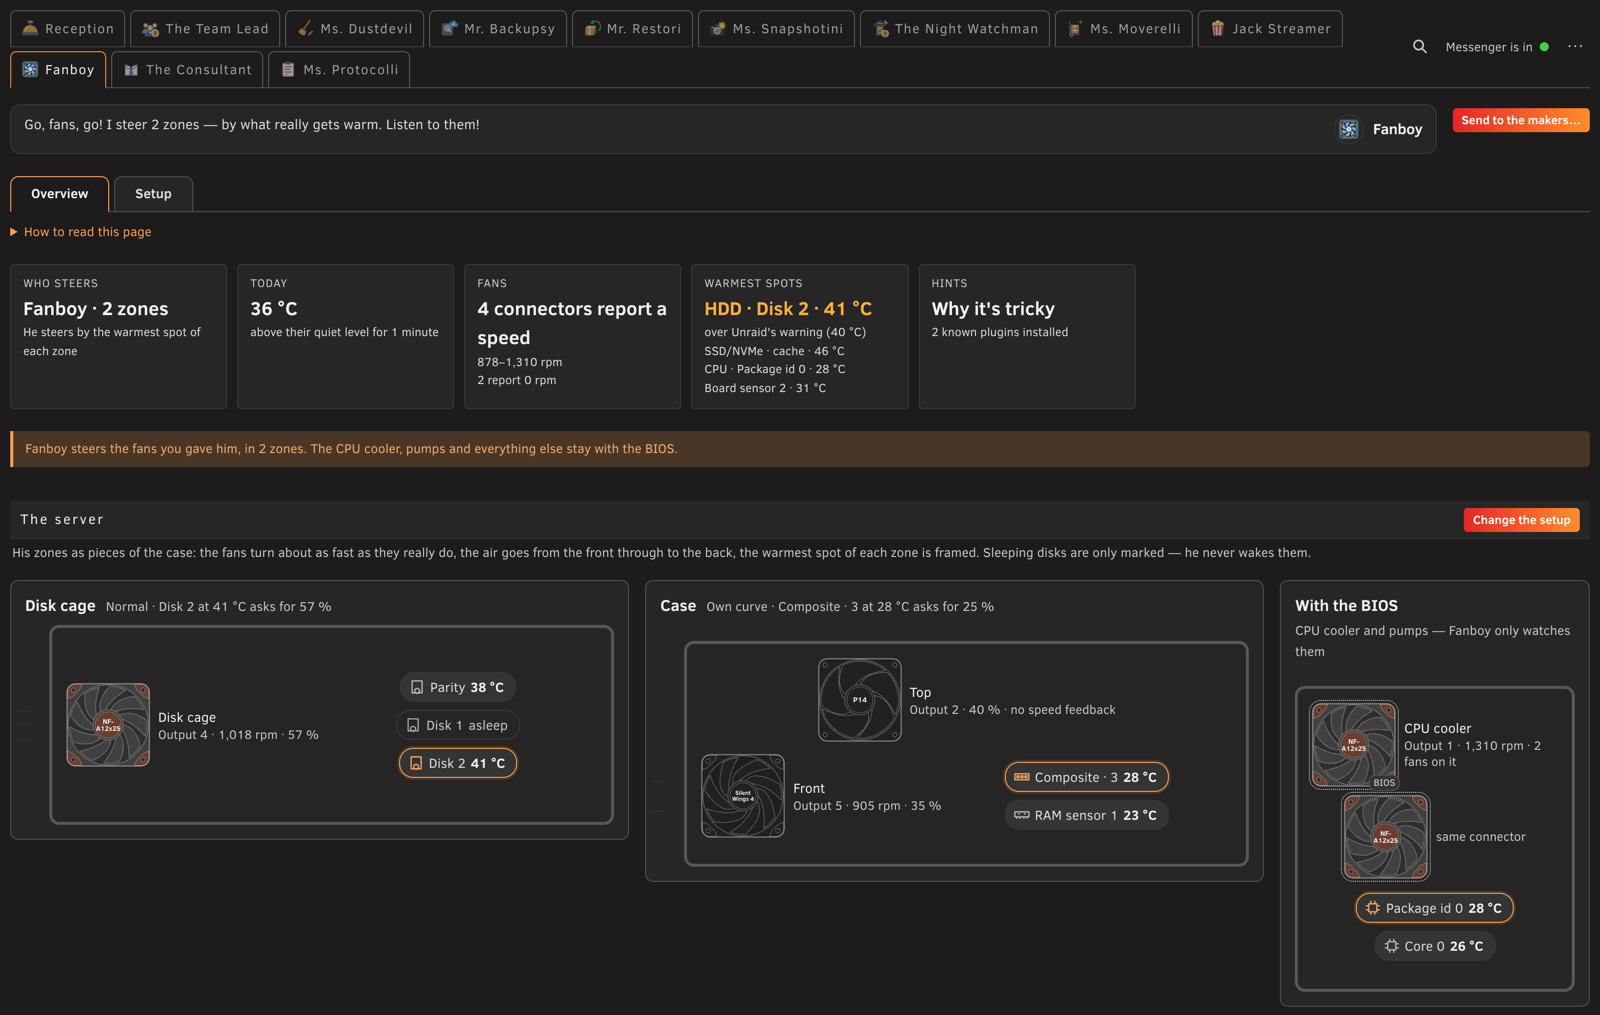
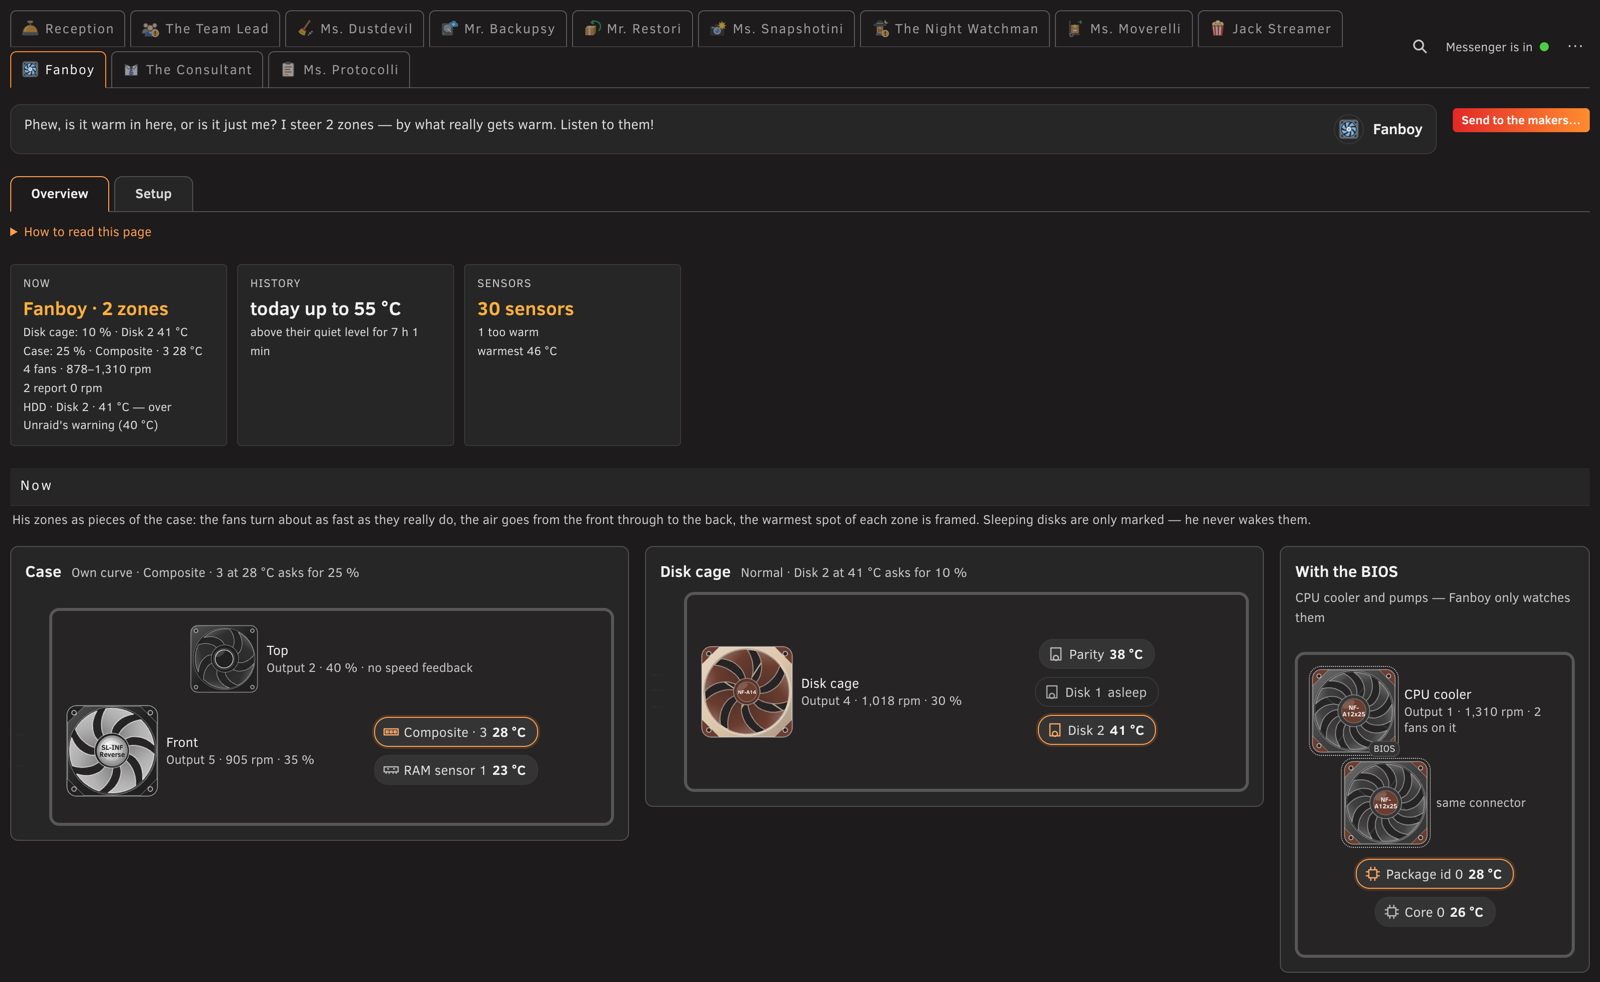
README: Fanboy's picture anew (today's overview, fans after their models and sizes); GUIDE: which graphics card gives a temperature
Picture from tools/ui-shots.sh, route fanboy until .fb-server, en, white and black, 1600 px, a demo
variant of tests/ui/demo/fanboy.json (an 80 mm, a reverse-blade 140 mm, a Noctua NF-A14).

diff --git a/README.md b/README.md
@@ -48,7 +48,7 @@ CPU, board, RAM — has its own curve, and the most demanding one decides. You s
 fan in a real test, he measures it, and a fan stands still only where he saw it start again. The fans he doesn't steer,
 he watches; stopped, he gives every fan back. Boards that steer their fans over IPMI aren't supported.
 
-<a name="fanboy"><picture><source media="(prefers-color-scheme: dark)" srcset="https://raw.githubusercontent.com/dropnook/UnraidSecretaryOffice/main/docs/screenshots/fanboy-dark.png"><img src="https://raw.githubusercontent.com/dropnook/UnraidSecretaryOffice/main/docs/screenshots/fanboy-light.png" alt="Fanboy: two zones, each fan with its speed, the warmest spot of each zone framed"></picture></a>
+<a name="fanboy"><picture><source media="(prefers-color-scheme: dark)" srcset="https://raw.githubusercontent.com/dropnook/UnraidSecretaryOffice/main/docs/screenshots/fanboy-dark.png"><img src="https://raw.githubusercontent.com/dropnook/UnraidSecretaryOffice/main/docs/screenshots/fanboy-light.png" alt="Fanboy: his zones as pieces of the case, each fan drawn after its model and size and turning at its speed, the warmest spot of each zone framed"></picture></a>
 
 Also on the team: Ms. Snapshotini, Ms. Dustdevil, Ms. Protocolli and the Consultant. Five languages, Unraid's themes,
 search with ⌘K, on the phone too. **[The full guide](docs/GUIDE.md)** walks through every desk.

diff --git a/docs/GUIDE.md b/docs/GUIDE.md
@@ -362,7 +362,8 @@ His fans' biggest fan: he steers the fans on the mainboard's fan connectors by w
 - **Measure:** each fan of his with speed feedback, from full down to its lowest steady speed, its start from standstill
   and how long that takes. Usually about 4 minutes per fan, at most 18. A fan may stand still only when the measuring saw
   it start again.
-- **Zones:** up to 8, each with its fans and its heat sources — disks, SSDs, NVMe, CPU, board, RAM, graphics card, other.
+- **Zones:** up to 8, each with its fans and its heat sources — disks, SSDs, NVMe, CPU, board, RAM, other, and a graphics
+  card whose Linux driver reports a temperature (NVIDIA's own driver doesn't).
   Every kind of heat source in a zone has its own curve: *Quiet*, *Normal*, *Cool* or your own (kept per kind). The zone
   runs at what the most demanding curve asks; the curve alone decides. Disks outside the array and pools count too; a
   sleeping disk is never woken.
